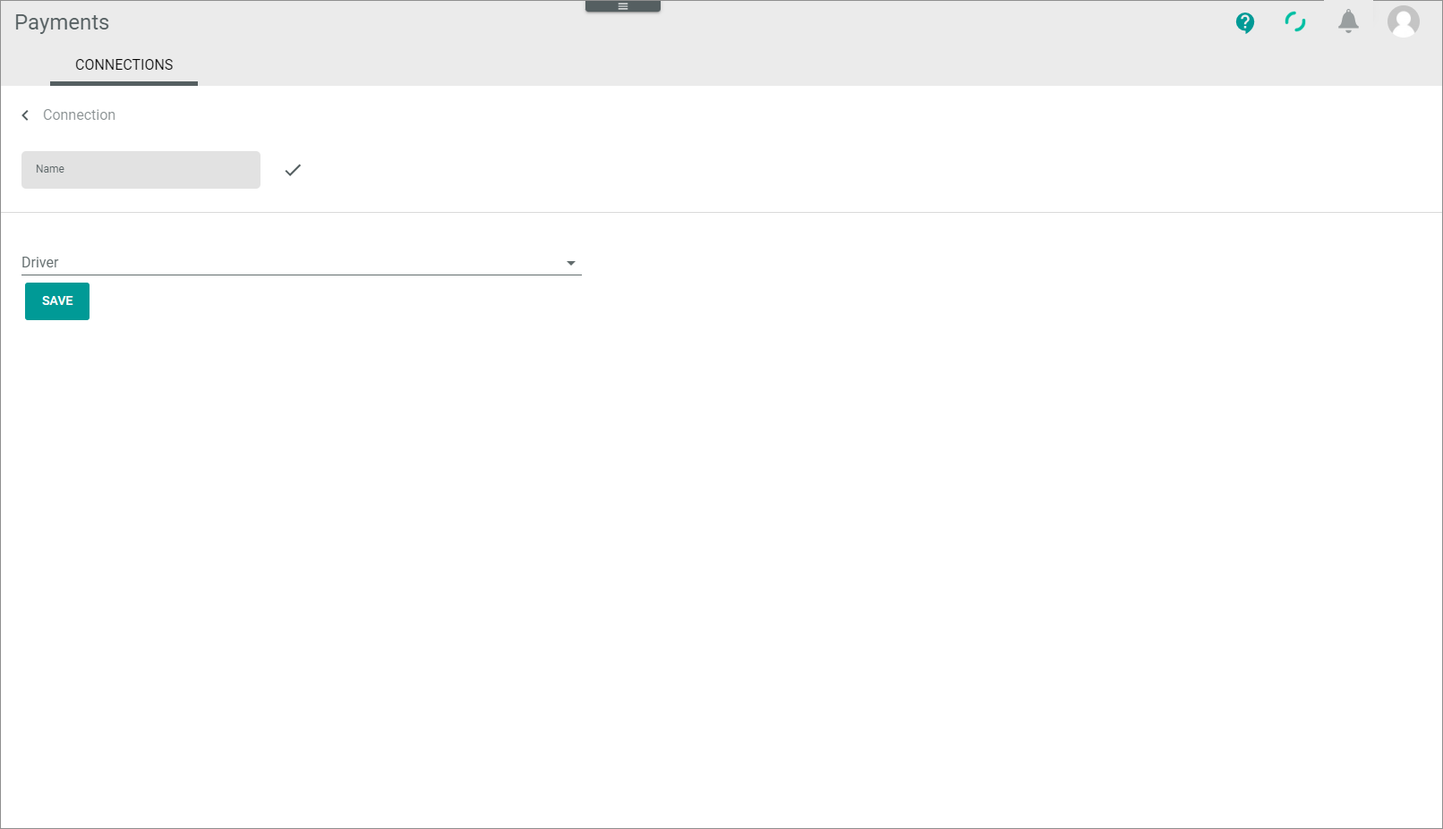
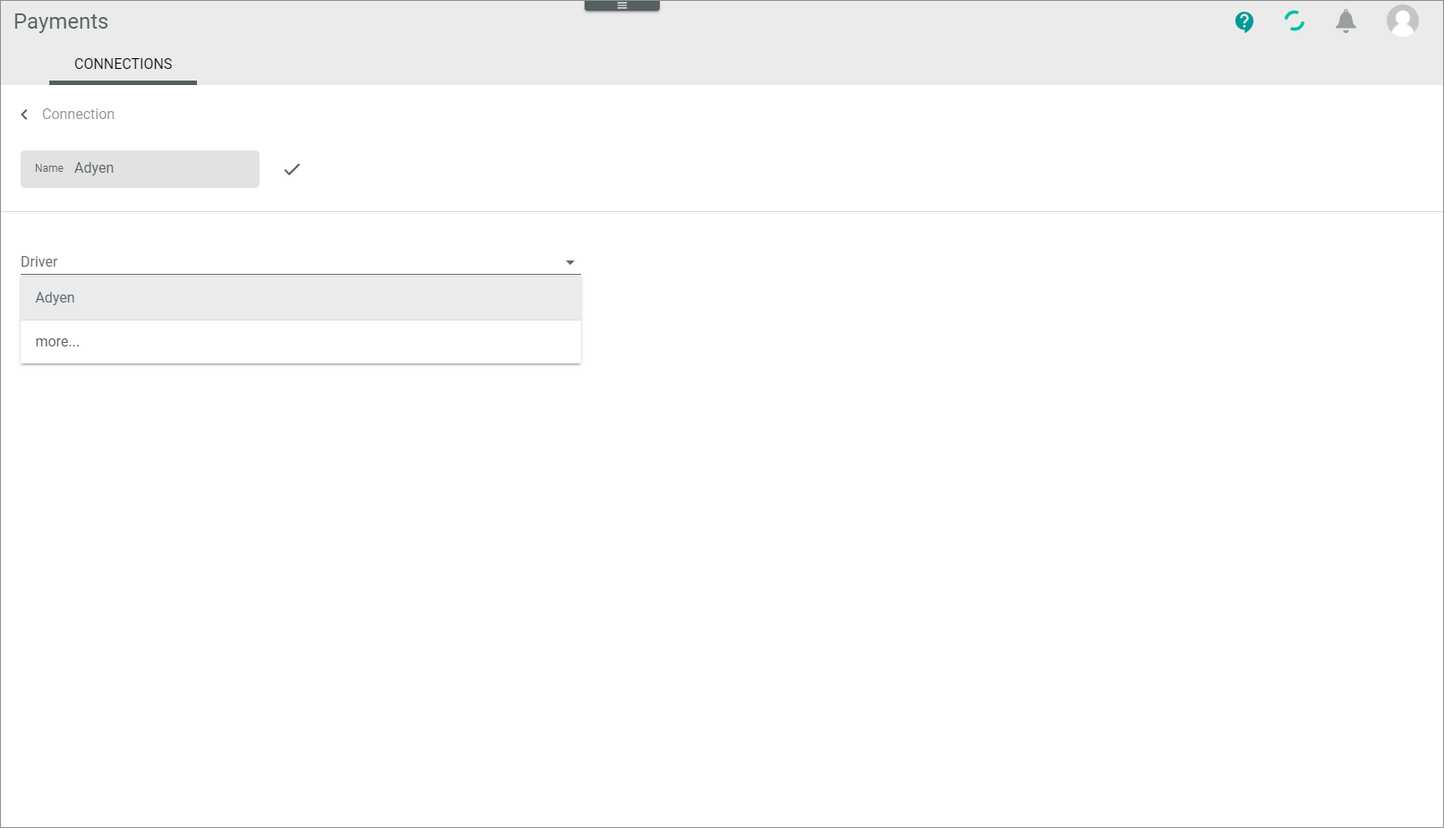
ACD-843
Review

diff --git a/Payments/Integration/01_EstablishConnection.md b/Payments/Integration/01_EstablishConnection.md
@@ -3,16 +3,16 @@
 # Establish connections to payment service providers (PSP)
 
 
-If you want to establish a new connection to a payment service provider (PSP), you can buy the needed connection in the app store. This is valid if you have not yet bought it with your Actindo maintenance contract.<!---Stimmt das?-->   
+If you want to establish a new connection to a payment service provider (PSP), you can buy the needed connection in the app store. This is valid except for the Actindo POS driver and if you have not yet bought it with your Actindo maintenance contract.<!---Stefan: Stimmt das?-->   
 The data structure of the connection then provides exactly the data that the PSP needs to exchange data with the Actindo *Payments* module.
 
 In the following, the general settings to create, edit, 
-or disable connections are described. Except for the Actindo POS driver, you can buy the connections to payment service providers in the app store.<!---???stimmt das?-->
+or disable connections are described. 
 
 
 ## Create a PSP connection
 
-Create a connection to a certain payment provider. As soon as a connection has been established,..activated?? <!---an initial synchronization will be triggered, which will transfer the entire data model of the connected payment provider to Actindo-->. 
+Create a connection to a certain payment provider. As soon you have established a connection, an initial synchronization will be triggered, which will transfer the entire data model of the connected payment provider to Actindo. 
 
 
 #### Prerequisites
@@ -20,11 +20,11 @@ At least one connection has been installed.
 
 
 #### Procedure
-*Payments > Settings > Tab CONNECTIONS*
-<!--- ![Connection](../../Assets/Screenshots/Payments/Settings/Connections/Connections.png "[Connection]")--->
+*Payments > Settings > Tab CONNECTIONS*   
+![Connections](../../Assets/Screenshots/Payments/Settings/Connections.png "[Connections]")
 1.  Click the ![Add](../../Assets/Icons/Plus01.png "[Add]") (Add) button in the bottom right corner.   
     The view for creating a connection is displayed.   
-    ![Create connection](../../Assets/Screenshots/Payments/Settings/Connections/CreateConnection.png "[Create connection]")
+    ![Create connection](../../Assets/Screenshots/Payments/Settings/CreateConnection.png "[Create connection]")
 2.  Enter a name for the connection in the *Name* field.
 3.  Click the *Driver* drop-down list and select the desired driver. 
    All already installed drivers are displayed in the list.   
@@ -33,20 +33,17 @@ At least one connection has been installed.
 
      The *Credentials* section is displayed below the drop-down list.
 
-    ![Credentials](../../Assets/Screenshots/Payments/Settings/Connections/Credentials.png "[Credentials]")
+    ![Credentials](../../Assets/Screenshots/Payments/Settings/CreateConnectionCredentials.png "[Credentials]")
      > [Info] Depending on the selected driver, the fields in the *Credentials* section differ.
 
-4. Enter the required data in the fields in the *Credentials* section.
-5. If the PSP connection required additional settings, open the *Settings* tab and add further settings.
+4. Enter the required data in the fields in the *Credentials* section. Use the information you have gotten from the payment service provider to fill the credentials.
+5. If the PSP connection requires additional settings, open the *Settings* tab and add further settings.
 
-5. Click the [SAVE] button.   
+6. Click the [SAVE] button.   
     The connection will be established. The *Checking credentials...* notice is displayed. After a few seconds, the *Loading data...* notice is displayed.
-
-    ![Checking credentials](../../Assets/Screenshots/Payments/Settings/Connections/CheckingCredentials.png "[Checking credentials]")
-
     The view for creating connections is automatically closed when the connection has been established. The *Edit connection* view of the newly created connection is displayed. The *Settings* tab is selected.
-
-    ![Edit connection settings](../../Assets/Screenshots/Payments/Settings/Connections/EditConnectionSettings.png "[Edit connection settings]")   
+      ![Credentials](../../Assets/Screenshots/Payments/Settings/EditConnectionSettings.png "[Credentials]")
+    <!-----Stefan: stimmt das? Ich kann es nicht nachmachen--->
 
 
 ## Edit a PSP connection
@@ -61,14 +58,17 @@ At least one connection has been created, see [Create a connection](#create-a-co
 
 *Payments > Settings > Tab CONNECTIONS*
 
-![Connections](../../Assets/Screenshots/Payments/Settings/Connections/Connections.png "[Connections]")
+![Connections](../../Assets/Screenshots/Payments/Settings/ChangeConnections.png "[Connections]")
 
-1. Click the connection you want to edit in the list of connections.   
+1. Select the checkbox of the connection you want to edit.  
+   The editing toolbar is displayed above the list of connections.      
+2. Click the  ![Edit](../../Assets/Icons/Edit01.png "[Edit]")  button
+   
     The *Edit connection* view is displayed.
 
-    > [Info] Depending on the driver of the connection, the *Credentials* and the *Settings* tab are displayed in the *Edit connection* view.
+    > [Info] Depending on the driver of the connection, the *Credentials* as well as the *Settings* tab are displayed in the *Edit connection* view.
 
-    ![Edit connection](../../Assets/Screenshots/Payments/Settings/Connections/EditConnectionCredentials.png "[Edit connection]")
+    ![Connection credentials](../../Assets/Screenshots/Payments/Settings/EditConnectionCredentials.png "[Connection credentials]")
 
 2. Edit the desired data of the connection in the corresponding fields in the *Credentials* tab.
 
@@ -76,26 +76,23 @@ At least one connection has been created, see [Create a connection](#create-a-co
 
 4. Click the [SAVE] button.   
     The *Checking credentials...* notice is displayed.
-
-    ![Credentials](../../Assets/Screenshots/Payments/Settings/Connections/CheckingCredentials.png "[Credentials]")
-
-    The *Edit connection* view is automatically closed when the changes have been saved. The *Connections* view is displayed again.
-
-
+    ![Checking credentials](../../Assets/Screenshots/Payments/Settings/CheckingCredentials.png "[Checking credentials]")
+    The *Edit connection* view is automatically closed when the changes have been saved. The *CONNECTIONS* view is displayed again.
 
 ## Disable a PSP connection
-Once a connection has been established, you cannot delete it because of potential dependencies in the existing database. Nevertheless, you can disable the connection if you do not use is any longer. You can disable several active connections at a time.
+Once a connection has been established, you cannot delete it because of potential dependencies in the existing database. Nevertheless, you can disable the connection if you no longer use it. You can disable several active connections at a time.
 
 #### Prerequisites
 
 - At least one connection has been established, see [Create a connection](#create-a-connection).
+- The connection is active.
 
 
 #### Procedure
 
 *Payments > Settings > Tab CONNECTIONS*
 
-![Connections](../../Assets/Screenshots/Payments/Settings/Connections/Connections.png "[Connections]")
+![Connections](../../Assets/Screenshots/Payments/Settings/ChangeConnections.png "[Connections]")
 
 1. Select the checkbox of the connection you want to disable in the list of connections.   
     The editing toolbar is displayed above the list of connections.
@@ -105,3 +102,28 @@ Once a connection has been established, you cannot delete it because of potentia
 
 3. Click the ![Refresh](../../Assets/Icons/Refresh01.png "[Refresh]") (Refresh) button to update the list of connections.   
     The status of the disabled connection in the *Status* column has switched to **Inactive**.
+
+## Enable a PSP connection
+Once a connection has been established, you can disable it if you no longer need it. If you have done this by mistake, you can enable the connection again. You can enable several active connections at once.
+
+#### Prerequisites
+
+- At least one connection has the status *Inactive*.
+
+
+#### Procedure
+
+*Payments > Settings > Tab CONNECTIONS*
+
+![Connections](../../Assets/Screenshots/Payments/Settings/ChangeConnections.png "[Connections]")
+<!----Stefan, kannst Du mir einen Screenshot machen?Eigentlich brauche ich nur einen grünen Enable button --->
+
+1. Select the checkbox of the connection you want to enable in the list of connections.   
+    The editing toolbar is displayed above the list of connections.
+
+2. Click the [ENABLE] button in the editing toolbar.   
+    The connection has been activated.
+
+3. Click the ![Refresh](../../Assets/Icons/Refresh01.png "[Refresh]") (Refresh) button to update the list of connections.   
+    The *Checking credentials...* notice is displayed. 
+    The status of the enabled connection in the *Status* column has switched to **Active**.

diff --git a/Payments/Operation/01_ManageAuthorizations.md b/Payments/Operation/01_ManageAuthorizations.md
@@ -8,7 +8,7 @@ The processing of the authorization transactions works as follows:
 
 For Actindo, the authorization transaction serves as a reference to a payment made by a customer.   
 
-You can use this procedure to display all incoming authorization transactions of a payment service provider. You can check for communication errors between Actindo and the payment service provider that has been caused in a termination of a workflow. In addition, if applicable, you can change the status of a transaction to start continuing further processing.    
+You can use this procedure to display all incoming authorization transactions of a payment service provider. You can check for communication errors between Actindo and the payment service provider that has been caused in a termination of a workflow, for example. In addition, if applicable, you can change the status of a transaction to start continuing further processing.    
   
  > [Info] An authorization transaction does not contain any sensible data protected by a data protection act such as GDPR. Those data remain on the payment server provider side only. In addition, an Actindo user will not be able to redirect a payment to his or her own bank account. The authorization transaction is a reference to the communication between the Actindo system and the payment service provider's system only.    
 
@@ -25,6 +25,7 @@ An authorization transaction provides numerous payment-related details, which ma
 
 - At least one connection has been created, see [Create a connection](../Integration/01_ManageConnections.md#create-a-connection).
 - At least one authorization transaction has been created.
+- It is recommended that you have added the *Status ID* field to your view so that you are able to sort or filter for specific statuses. 
 
 #### Procedure
 
@@ -51,7 +52,7 @@ An authorization transaction provides numerous payment-related details, which ma
 
     ![Authorization attributes and logs](../../Assets/Screenshots/Payments/Authorizations/CheckAttributes.png "[Authorization attributes and logs]")
 
-3. Check the attributes and logs of the transaction. For more information, see the following:
+3. Check the attributes and logs of the transaction. For detailed information, see the following:
    - [Authorizations &ndash; Attributes](../UserInterface/01_ListAuthorizations.md#authorizations-–-attributes)
    - [Authorizations &ndash; Logs](../UserInterface/01_ListAuthorizations.md#authorizations-–-logs)
 4. Return to the LIST and decide how to proceed with the transaction.
@@ -66,14 +67,14 @@ After you have checked an authorization transaction that could not be processed 
 
 #### Prerequisites
 
-The status of an authorization transaction is **not** "success". <!---Stimmt das oder gibt es noch mehr?-->
+The status of an authorization transaction is **not** "Success". <!---Stimmt das oder gibt es noch mehr?-->
 
 #### Procedure
 
 1. Check the authorization transaction you want to capture, see [Check the authorization transaction](./01_ManageAuthorization.md#check-an-authorization-transaction).
 2. Select the authorization transaction you want to capture by clicking the checkbox on the left.   
     The editing toolbar is displayed.
-3. Click the [Capture] button.  
+3. Click the [Capture] button.    
    A confirmation message is displayed. The status of the authorization transaction has changed to *Success*.  <!---stimmt das?-->
   
 
@@ -83,7 +84,7 @@ The status of an authorization transaction is **not** "success". <!---Stimmt das
 
 ![Cancel authorization transaction](../../Assets/Screenshots/Payments/Authorizations/ChangeAuthorization.png "[Cancel authorization transaction]")
 
-After you have checked an authorization transaction that could not be processed by the workflow, you can cancel the transaction manually, so that the order is cancelled both at Actindo and at the PSP. Actindo will then automatically inform the PSP about the cancellation. The customer will get his or her money back.
+After you have checked an authorization transaction that could not be processed by the workflow, you can cancel the transaction manually, so that the order is cancelled both at Actindo and at the payment service provider. Actindo will then automatically inform the payment service provider about the cancellation. The customer will get his or her money back.
 
 #### Prerequisites
 - The status of an authorization transaction is "failure" or "error". 
@@ -93,7 +94,7 @@ After you have checked an authorization transaction that could not be processed 
 1. Identify the communication issue that led to the error. To do this, check the authorization transaction you want to cancel, see [Check the authorization transaction](01_ManageAuthorization.md#check-an-authorization-transaction).
 2. Select the authorization transaction you want to cancel by clicking the checkbox on the left.   
     The editing toolbar is displayed.
-3. Click the [Cancel] button.   <!---was passsiert dann-->
+3. Click the [Cancel] button.   <!---was passsiert dann-->   
    A confirmation message is displayed. The status of the authorization transaction has changed to *Unconfirmed??*.
 
 
@@ -107,7 +108,7 @@ You can void an authorization transaction, if you want to disable the transactio
 
 #### Prerequisites
 
-The status of an authorization transaction is "failure" or "error".
+The status of an authorization transaction is "Failure" or "Error".
 
 #### Procedure
 

diff --git a/Payments/Operation/02_ManagePaymentsAndCaptures.md b/Payments/Operation/02_ManagePaymentsAndCaptures.md
@@ -3,7 +3,8 @@
 A capture is a payment made. The most payment service providers create a new reference, when a payment has been captured.
 > [Info] This means that the reference ID of an authorization transaction has been changed in this case. You will not be able to identify the transaction here with the authorization transaction ID.   
 
-You can use this procedure to display all incoming references to a capture transaction from a payment service provider. You can check for communication errors between Actindo and the payment service provider that has been caused in a termination of a workflow, for example. In addition, if applicable, you can manually change the status of a transaction to *refund* to initiate a repayment. For example, you cannot deliver the product and want to give the money back to the customer. Additionally, you can set the status to *void* to clear the database from faulty entries.      
+You can use this procedure to display all incoming references to a capture transaction from a payment service provider. You can check for communication errors between Actindo and the payment service provider that has been caused in a termination of a workflow, for example.   
+If you cannot deliver the product and want to give the money back to the customer, you can manually change the status of a transaction to *refund* to initiate a repayment. Additionally, you can set the status to *void* to clear the database from faulty entries.      
 If everything works fine with the posting of a capture, you do not need to monitor the *Payments and Captures* menu entry.   
 > [Info] You can only change the status of a capture transaction, but not any data.
 
@@ -16,6 +17,7 @@ A capture provides numerous payment-related details, which may vary depending on
 
 - At least one connection has been created, see [Create a connection](../Integration/01_ManageConnections.md#create-a-connection).
 - At least one capture transaction has been created.
+- It is recommended that you have added the *Status ID* field to your view so that you are able to sort or filter for specific statuses. 
 
 #### Procedure
 
@@ -32,7 +34,7 @@ A capture provides numerous payment-related details, which may vary depending on
     - **3 - Success**  
         Actindo has got the response from the service payment provider, that the transfer was successfully.
     - **4 - Failure**   
-        The payment service provider has received the request, but it cannot process it. If available for the connection, the status information field provides further information.
+        The payment service provider has received the request, but it cannot process it. If available for the connection, the *Status information* field provides further information.
     - **5 - Error**   
        Errors have been occurred during transfer.
     - **6 - Void**   
@@ -45,9 +47,10 @@ A capture provides numerous payment-related details, which may vary depending on
 
     ![Payment and capture attributes and logs](../../Assets/Screenshots/Payments/PaymentsCaptures/CheckAttributes.png "[Payment and capture attributes and logs]")   
 
-3. Check the attributes and logs of the transaction. For more information, see the following:
+3. Check the attributes and logs of the transaction. For detailed information, see the following:
      - [LIST &ndash; Attributes](../UserInterface/03_ListPaymentsAndCaptures.md#payments-and-captures-–-attributes)
      - [LIST &ndash; Logs](../UserInterface/03_ListPaymentsAndCaptures.md#payments-and-captures-–-logs)
+4. Return to the LIST and decide how to proceed with the transaction.
 
 ## Refund payments and capture transaction
 
@@ -68,7 +71,7 @@ The status of a capture transaction is **not** success. In this case, the furthe
 1. Check the capture transaction you want to refund, see [Check the capture transaction](#check-capture-transactionn).
 2. Select the capture transaction you want to refund by clicking the checkbox on the left.   
     The editing toolbar is displayed.
-3. Click the [Refund] button. <!---was passsiert dann-->
+3. Click the [Refund] button. <!---was passsiert dann-->   
    A confirmation message is displayed. The status of the capture transaction has changed to *Refund*.
 
 ## Void payment and capture transaction
@@ -89,5 +92,5 @@ The status of a capture transaction is **not** success. In this case, further pr
  1. Identify the communication issue that led to the error. To do this, check the capture transaction you want to void, see [Check the payments and captures transaction](#check-capture-transaction).
 2. Select the capture transaction to be voided by clicking the checkbox on the left.   
     The editing toolbar is displayed.
-3. Click the [Void] button. 
+3. Click the [Void] button.    
    A confirmation message is displayed. The status of the capture transaction has changed to "Void". It is no longer valid for the Actindo database.

diff --git a/Payments/Overview/02_Features.md b/Payments/Overview/02_Features.md
@@ -11,11 +11,11 @@ Organize and monitor your incoming payments and refunds:
 
 
 ## Automated import
-With the *Payments* module of Actindo, pre-authorized payments are captured automatically at the moment orders are delivered. In case of returns or credit notes, refund requests are automatically sent out to the original means of payment. By using the 4-eyes principle, you can optionally double-check this process, for example, depending on the invoice amount.  
+With the *Payments* module of Actindo, pre-authorized payments are captured automatically at the moment orders are delivered. In case of returns or credit notes, refund requests are automatically sent out to the original means of payment. By using the 4-eyes principle, you can optionally double-check the refunds, for example, with specific user permissions depending on the invoice amount.  
 
 
-## Connection of payment service providers
-Using our simple EBICS integration, you can flexibly connect various payment service providers such as Adyen, Paypal, credit cards, or bank transactions to the *Actindo Core1 platform*. 
+## Connection to payment service providers
+Using our simple EBICS integration, you can flexibly connect various payment service providers such as Adyen&trade;, Paypal&trade;, credit cards, or bank transactions to the *Actindo Core1 platform*. 
 
 
 ## Generation of payments for POS, telephone sales and sales representatives
@@ -23,7 +23,7 @@ Depending on the type of integration, you can also generate payments from POS te
 
 
 ## Import of bank statements and automatic posting
-Bank statements and reports from payment service providers can be automatically processed and posted to your accounting module. In case of prepayments, you can hold the shipment of orders until the invoice amount is received and automatically released for shipment after payment has been made.
+Bank statements and reports from payment service providers can be automatically processed and posted to your accounting module. In case of prepayments, you can hold the shipment of orders until the invoice amount is received. It is then and automatically released for shipment after payment has been made.
 
 
 ## Payment processing and accounting linked 
@@ -31,7 +31,7 @@ Bank statements and reports from payment service providers can be automatically 
 
 
 ## Managing all payments centrally 
-The payment options for customers are diverse, and so are the payment service providers that exist on the market today. In order to be able to offer your customers the widest possible range of payment methods - from invoice to credit card to direct debit - cooperation with various providers is unavoidable. Actindo's payment module enables the simple connection of various payment service providers, such as Klarna, Paypal, or banks via EBICS. This enables the management of all payments and refunds centrally via the *Actindo Core1 platform*.  
+The payment options for customers are diverse, and so are the payment service providers that exist on the market today. In order to be able to offer your customers the widest possible range of payment methods - from invoice to credit card to direct debit - cooperation with various providers is required. Actindo's payment module enables the simple connection of various payment service providers, such as Klarna&trade;, Paypal&trade;, or banks via EBICS. This enables the management of all payments and refunds centrally via the *Actindo Core1 platform*.  
 
 ## Handling of sensitive data
 Although you can view and monitor all incoming payments and refunds, you do not have access to any sensitive customer data. In the *Payments* module, all incoming payments and refunds are referenced to the number of the payment service provider transactions. Sensible data such as customer names, bank or credit card details are not visible in the *Payments* module. 

diff --git a/Payments/Overview/01_General.md b/Payments/Overview/01_General.md
@@ -1,5 +1,5 @@
 # General information
-The automatic processing and booking of payments are important success and efficiency factors for companies. This is especially true if you receive orders from several sales channels and offer different payment methods via external service providers. By linking the *Accounting* and *Payments* Modules, the *Actindo Core1 Platform* enables a holistic automated process flow from the receipt of payments to the final allocation of incoming payments. The *Payments* Module acts as a link between payment providers and an Accounting solution.      
+The automatic processing and booking of payments are important success and efficiency factors for companies. This is especially true if you receive orders from several sales channels and offer different payment methods via external service providers. By linking the *Accounting* and *Payments* Modules, the *Actindo Core1 Platform* enables a holistic automated process flow from the receipt of payments to the final allocation of incoming payments. The *Payments* Module acts as a link between payment providers and an accounting solution.      
 
 
 This documentation refers to the *Payments* module version 4.1.0. There may be differences in the user interface, features, and operation if your *Payments* module is installed in a different version.
@@ -8,7 +8,7 @@ This documentation refers to the *Payments* module version 4.1.0. There may be d
 
 ## Benefits
 The Actindo *Payment* module offers the following benefits:
-- Automated processing of incoming payments and refunds.
+- Automated processing of incoming payments, refunds, and cancellations.
 - Predefined interfaces for connecting to various payment service providers (PSPs), credit cards, and banks via EBICS (Electronic Banking Internet Communication Standard) of your choice.
 - Generation of payments for cash payments at your POS terminals.
 - Receiving automated revenues and refunds. 

diff --git a/Payments/Overview/00_Overview.md b/Payments/Overview/00_Overview.md
@@ -2,6 +2,15 @@
 
 In this part of the *Payments* documentation, you will find the following chapters: 
 
-- [General](01_General.md)   
-- [Key features](02_Features.md)
-- [Processes](03_Processes.md)
+- [General](./01_General.md)  
+     - [Benefits](./01_General.md#benefits)   
+     - [Prerequisites](./01_General.md#prerequisites)  
+- [Key features](./02_Features.md)
+     - [Automated import](./02_Features.md#automated-import)      
+     - [Connection of payment service providers](./02_Features.md#connection-of-payment-service-providers)   
+     - [Generation of payments for POS, telephone sales and sales representatives](./02_Features.md#generation-of-payments-for-pos-telephone-sales-and-sales-representatives)   
+     - [Import of bank statements and automatic posting](./02_Features.md#import-of-bank-statements-and-automatic-posting)   
+     - [Payment processing and accounting linked](./02_Features.md#payment-processing-and-accounting-linked)   
+     - [Managing all payments centrally](./02_Features.md#managing-all-payments-centrally)  
+     - [Handling of sensitive data](./02_Features.md#handling-of-sensitive-data)
+- [Processes](./03_Processes.md)

diff --git a/Payments/Operation/03_ManageRefunds.md b/Payments/Operation/03_ManageRefunds.md
@@ -44,6 +44,7 @@ A refund transaction provides numerous payment-related details, which may vary d
 3. Check the attributes and logs of the transaction. For detailed information, see the following:
      - [LIST &ndash; Attributes](../UserInterface/04_ListRefunds.md#refunds-–-attributes)
      - [LIST &ndash; Logs](../UserInterface/04_ListRefunds.md#refunds-–-logs)
+4. Return to the LIST and decide how to proceed with the transaction.
 
 
 ## Void a refund transaction
@@ -63,5 +64,5 @@ The status of a refund transaction is **not** success. In case of success, the r
  1. Identify the communication issue that led to the error. To do this, check the refund transaction you want to void, see [Check the refund transaction](#check-refund-transaction).
 2. Select the refund transaction to be voided by clicking the checkbox on the left.   
     The editing toolbar is displayed.
-3. Click the [Void] button. 
+3. Click the [Void] button.   
    A confirmation message is displayed. The status of the refund transaction has changed to "Void". It is no longer valid for the Actindo database.

diff --git a/Payments/Operation/04_ManageCancellationsChargebacks.md b/Payments/Operation/04_ManageCancellationsChargebacks.md
@@ -62,6 +62,7 @@ A cancellation and chargeback transaction provides numerous payment-related deta
 3. Check the attributes and logs of the transaction. For more information, see the following:
      - [LIST &ndash; Attributes](../UserInterface/05_ListCancellationsChargebacks.md#cancellations-and-chargebacks-–-attributes)
      - [LIST &ndash; Logs](../UserInterface/04_ListRefunds.md#refunds-–-logs)
+4. Return to the LIST and decide how to proceed with the transaction.
 
 
 ## Void a cancellation and chargeback transaction

diff --git a/Payments/Overview/03_Processes.md b/Payments/Overview/03_Processes.md
@@ -1,0 +1,5 @@
+# Processes overview
+
+The following scheme shows the processes and chapters of the *Payments* module documentation and their link to other modules:
+
+![Payments Processes](../../Assets/Screenshots/Payments/PaymentsProcesses.png "[Payments Processes]")
